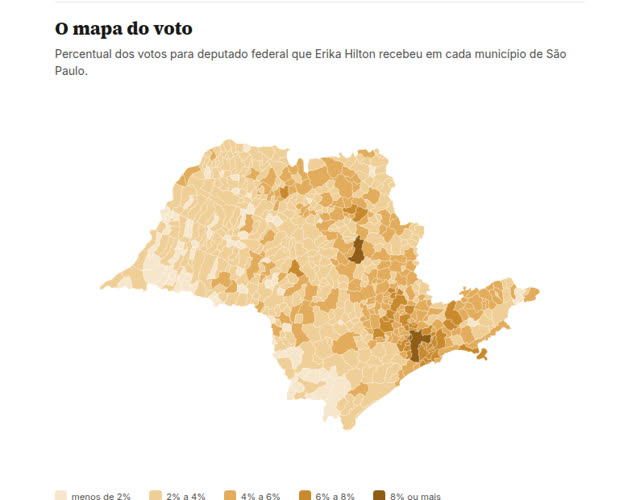
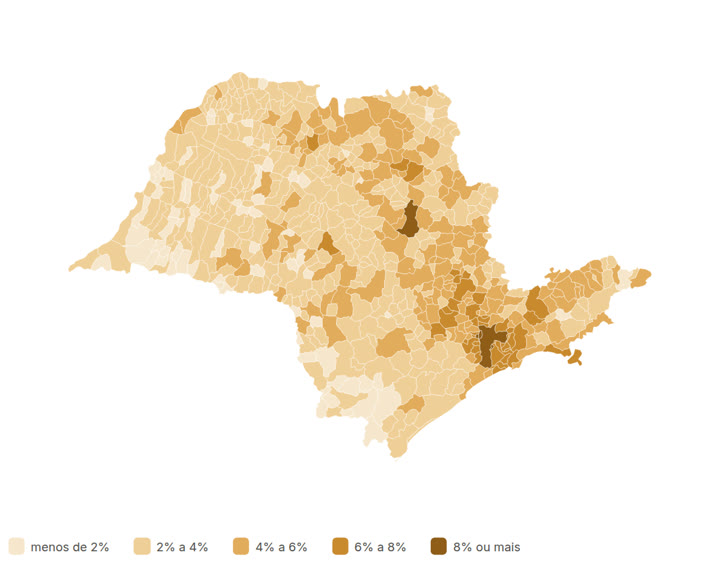
Raio-X: miniaturas só com o mapa e a legenda inteira

Changed region(s): [[0.0625, 0.03, 0.9062, 0.87], [0.0, 0.93, 0.7188, 1.0]]

diff --git a/site/public/raio-x/index.html b/site/public/raio-x/index.html
@@ -55,7 +55,7 @@
 
     .exemplos { display: grid; grid-template-columns: repeat(2, minmax(0, 1fr)); gap: 16px; }
     .exemplo { background: var(--card); border: 1px solid var(--line); border-radius: 16px; overflow: hidden; display: flex; flex-direction: column; }
-    .exemplo img { display: block; width: 100%; height: auto; background: #fff; border-bottom: 1px solid var(--line); }
+    .exemplo img { display: block; width: 100%; height: auto; aspect-ratio: 720 / 570; object-fit: contain; padding: 12px 12px 4px; background: #fff; border-bottom: 1px solid var(--line); }
     .exemplo .corpo { padding: 18px 20px 20px; display: flex; flex-direction: column; gap: 6px; flex: 1; }
     .exemplo h3 { font-size: 1.35rem; }
     .exemplo .meta { color: var(--text-3); font-size: .88rem; margin: 0; }
@@ -133,7 +133,7 @@
         <p class="sub">Um de cada lado do espectro político, com o mesmo método. Baixe e veja exatamente o que você recebe.</p>
         <div class="exemplos">
           <article class="exemplo">
-            <img src="mapa-nikolas-ferreira.jpg" alt="Mapa de Minas Gerais com o percentual de votos de Nikolas Ferreira em cada município" width="640" height="500" loading="lazy">
+            <img src="mapa-nikolas-ferreira.jpg" alt="Mapa de Minas Gerais com o percentual de votos de Nikolas Ferreira em cada município" width="720" height="570" loading="lazy">
             <div class="corpo">
               <h3>Nikolas Ferreira</h3>
               <p class="meta">PL · Deputado federal por Minas Gerais</p>
@@ -142,7 +142,7 @@
             </div>
           </article>
           <article class="exemplo">
-            <img src="mapa-erika-hilton.jpg" alt="Mapa de São Paulo com o percentual de votos de Erika Hilton em cada município" width="640" height="500" loading="lazy">
+            <img src="mapa-erika-hilton.jpg" alt="Mapa de São Paulo com o percentual de votos de Erika Hilton em cada município" width="720" height="570" loading="lazy">
             <div class="corpo">
               <h3>Erika Hilton</h3>
               <p class="meta">PSOL · Deputada federal por São Paulo</p>
